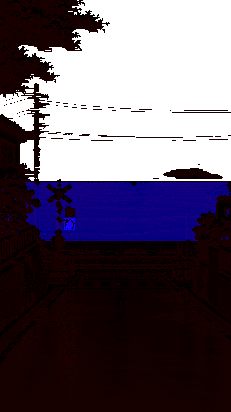
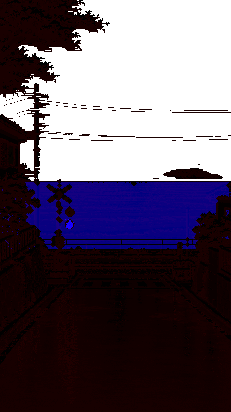
鎌倉高校前：海の下のほう（柵のあいだ・波打ちぎわ）も空の差分の海の色にする（v0.5.2）
柵の手すりと支柱は海から外して残す。踏切のランプのまわりに昼の海の青が残っていたのも直した。

Changed region(s): [[0.2727, 0.4951, 0.8485, 0.6117], [0.1818, 0.5825, 0.2424, 0.6117]]

diff --git a/app/sw.js b/app/sw.js
@@ -1,6 +1,6 @@
 // オフライン対応：アプリ本体と絵を端末に保存して、電波がなくても開けるようにする
 // 版を上げるときは VERSION を変える（古い保存は消える）
-const VERSION = 'tabiquest-v0.5.1';
+const VERSION = 'tabiquest-v0.5.2';
 const CORE = [
   './', 'index.html', 'manifest.json', 'css/app.css', 'vendor/three.r128.min.js',
   'js/main.js', 'js/card.js', 'js/places.js', 'js/photo_places.js', 'js/store.js', 'js/geo.js', 'js/conditions.js', 'js/ui.js', 'js/arrival.js', 'js/zukan.js', 'js/debug.js',

diff --git a/app/js/main.js b/app/js/main.js
@@ -15,7 +15,7 @@ import * as chukagai from './scenes/chukagai.js';
 import * as kamakura from './scenes/kamakura.js';
 import * as photo from './scenes/photo.js';
 
-export const VERSION = '0.5.1';
+export const VERSION = '0.5.2';
 engine.register('minatomirai', minatomirai.build);
 engine.register('chukagai', chukagai.build);
 engine.register('kamakura', kamakura.build);
